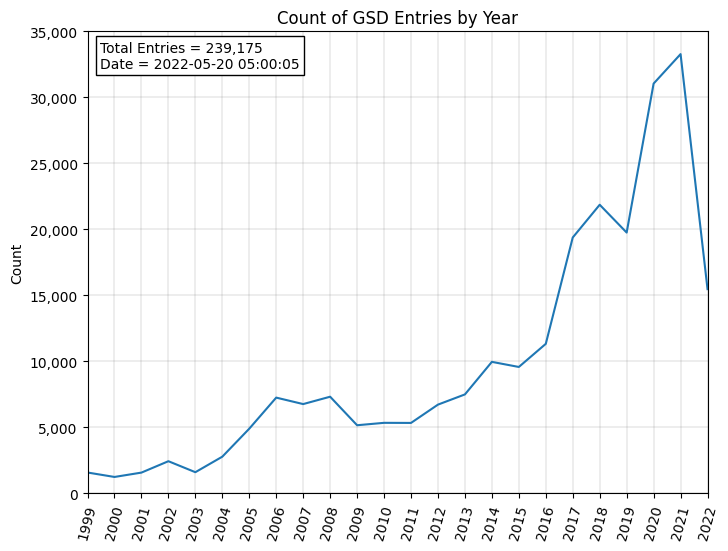
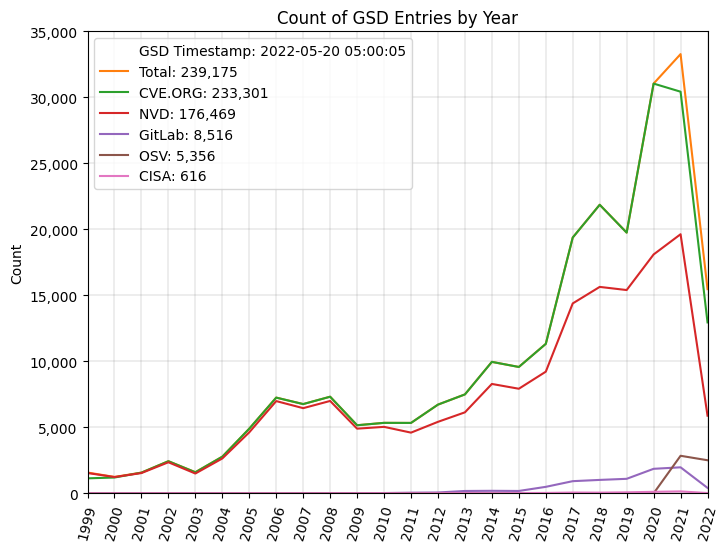
Updated figure with multiple objects

diff --git a/gsd_analysis.py b/gsd_analysis.py
@@ -69,20 +69,55 @@ def get_gsd_list(file=None, saveFile=False):
     return temp_gsd_list, temp_gsd_update_time
 
 
-def visualize_gsd(gsd_items, analysis_date):
+def visualize_gsd(gsd_items, gsd_counts, analysis_date):
     """
     Create a figure of the GSD item counts by year
     :param gsd_items: Dataframe of GSD entries
+    :param gsd_items: Dataframe of GSD counts for each objects
     :param analysis_date: Date of GSD NVD update time
     :return: None
     """
 
+    gsd_counts["year"] = gsd_counts.apply(lambda x: int(x['gsd_path'].split("/")[2]), axis=1)
+
     """Count by year"""
     gsd_year_counts = gsd_items["year"].value_counts().rename_axis('year').reset_index(name='counts').sort_values('year')
+    cve_year_counts = gsd_counts[gsd_counts["cve.org"] == 1]["year"].value_counts().rename_axis('year').reset_index(
+        name='cve_counts').sort_values('year')
+    nvd_year_counts = gsd_counts[gsd_counts["nvd.nist.gov"] == 1]["year"].value_counts().rename_axis(
+        'year').reset_index(
+        name='nvd_counts').sort_values('year')
+    gitlab_year_counts = gsd_counts[gsd_counts["gitlab.com"] == 1]["year"].value_counts().rename_axis(
+        'year').reset_index(
+        name='gitlab_counts').sort_values('year')
+    osv_year_counts = gsd_counts[gsd_counts["OSV"] == 1]["year"].value_counts().rename_axis('year').reset_index(
+        name='osv_counts').sort_values('year')
+    cisa_year_counts = gsd_counts[gsd_counts["cisa.gov"] == 1]["year"].value_counts().rename_axis('year').reset_index(
+        name='cisa_counts').sort_values('year')
+
+    """Combine each object type to a single DF"""
+    total_counts = pd.merge(gsd_year_counts, osv_year_counts,
+                            on="year",
+                            how="outer")
+
+    total_counts = total_counts.merge(cisa_year_counts, on="year", how="outer")
+    total_counts = total_counts.merge(cve_year_counts, on="year", how="outer")
+    total_counts = total_counts.merge(gitlab_year_counts, on="year", how="outer")
+    total_counts = total_counts.merge(nvd_year_counts, on="year", how="outer")
+
+    """Fill any empty columns"""
+    total_counts = total_counts.fillna(0)
 
     """Create a figure of the size of GSD by year"""
     fig, ax = plt.subplots(figsize=(8, 6))
-    ax.plot(gsd_year_counts["year"], gsd_year_counts["counts"])
+    ax.plot([], [], ' ', label=f"GSD Timestamp: {analysis_date}")
+    ax.plot(total_counts["year"], total_counts["counts"], label=f"Total: {int(total_counts['counts'].sum()):,}")
+    ax.plot(total_counts["year"], total_counts["cve_counts"], label=f"CVE.ORG: {int(total_counts['cve_counts'].sum()):,}")
+    ax.plot(total_counts["year"], total_counts["nvd_counts"], label=f"NVD: {int(total_counts['nvd_counts'].sum()):,}")
+    ax.plot(total_counts["year"], total_counts["gitlab_counts"], label=f"GitLab: {int(total_counts['gitlab_counts'].sum()):,}")
+    ax.plot(total_counts["year"], total_counts["osv_counts"], label=f"OSV: {int(total_counts['osv_counts'].sum()):,}")
+    ax.plot(total_counts["year"], total_counts["cisa_counts"],
+            label=f"CISA: {int(total_counts['cisa_counts'].sum()):,}")
 
     """Set some labels"""
     ax.set_xlim(gsd_year_counts["year"].min(), gsd_year_counts["year"].max())
@@ -95,13 +130,15 @@ def visualize_gsd(gsd_items, analysis_date):
     ax.set_ylabel('Count')
     ax.set_title(f'Count of GSD Entries by Year')
     plt.grid(color='gray', linestyle='-', linewidth=0.2)
+    plt.legend(loc='upper left')
 
-    """Add a box with some key values"""
-    textstr = f"Total Entries = {len(gsd_items):,} \nDate = {analysis_date}"
-    props = dict(boxstyle='square', facecolor='white', alpha=1)
-    # place a text box in upper left corner
-    ax.text(0.02, 0.98, textstr, transform=ax.transAxes, fontsize=10,
-            verticalalignment='top', bbox=props)
+    # """Add a box with some key values"""
+    # textstr = f"GSD Timestamp = {analysis_date}"
+    # props = dict(boxstyle='round', facecolor='white', edgecolor='gray', alpha=0.9)
+    # # place a text box in middle left
+    # ax.text(0.50, 0.98, textstr, transform=ax.transAxes, fontsize=8,
+    #         verticalalignment='top', bbox=props)
+
 
     """Save Fig"""
     plt.savefig("./data/figs/gsd_total_count.png", bbox_inches="tight")
@@ -240,11 +277,11 @@ if __name__ == '__main__':
     """Get GSD Entries & the update time"""
     gsd_list, gsd_update_time = get_gsd_list()
 
-    """Figure for GSD Entries by Year"""
-    # visualize_gsd(gsd_list, gsd_update_time)
-
     """Generate Schemas for GSD"""
     complete_schema, gsd_df = generate_complete_gsd_schema(gsd_list, gsd_update_time)
+
+    """Figure for GSD Entries by Year"""
+    visualize_gsd(gsd_list, gsd_df, gsd_update_time)
 
     """============================================================================================================"""
     """============================================================================================================"""
